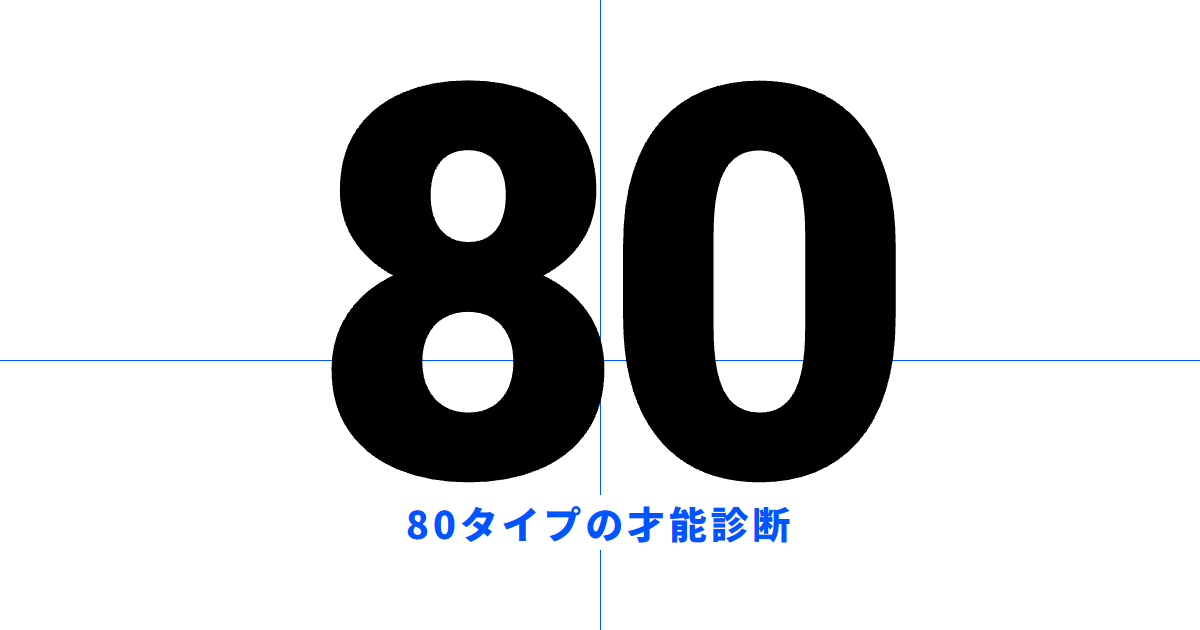
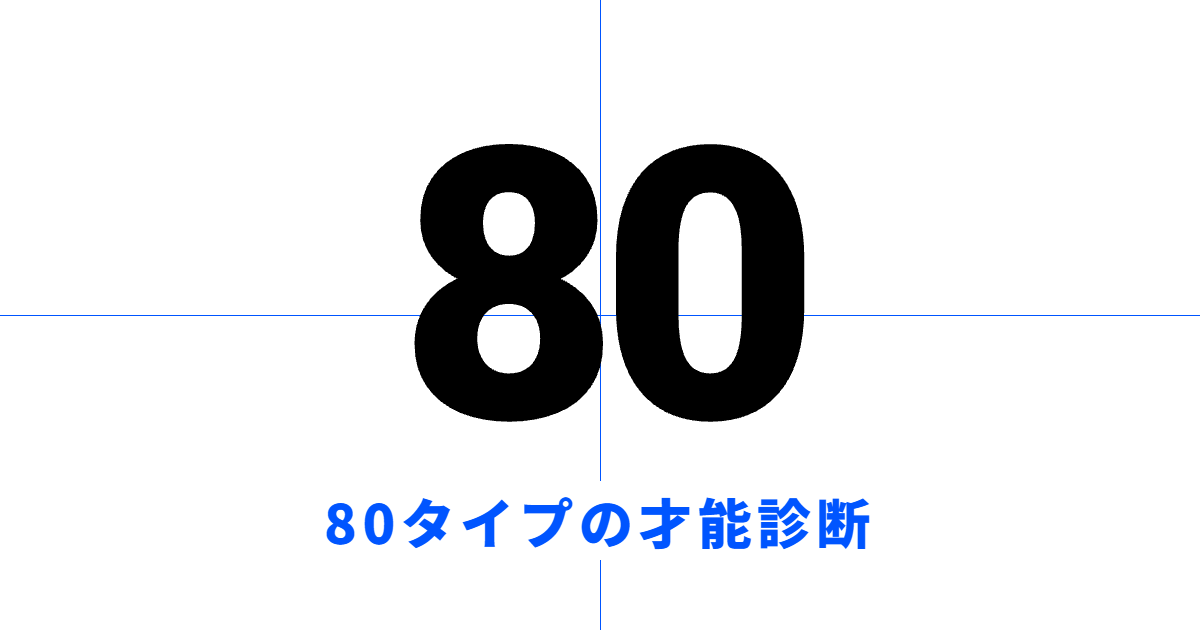
commit80

Changed region(s): [[0.2467, 0.1206, 0.7708, 0.8746]]

diff --git a/generate-ogp.js b/generate-ogp.js
@@ -31,7 +31,7 @@ const path = require("path");
         /* Blue Crosshairs */
         .h-line {
           position: absolute;
-          top: 360px; /* Below the center of 80 */
+          top: 315px; /* Exactly center of 630px */
           left: 0;
           width: 100%;
           height: 1px;
@@ -41,7 +41,7 @@ const path = require("path");
         .v-line {
           position: absolute;
           top: 0;
-          left: 600px;
+          left: 600px; /* Exactly center of 1200px */
           width: 1px;
           height: 100%;
           background-color: #0055FF;
@@ -51,20 +51,20 @@ const path = require("path");
         .number {
           font-family: 'Roboto', sans-serif;
           font-weight: 900;
-          font-size: 550px;
+          font-size: 380px; /* Decreased from 550px */
           color: #000000;
           line-height: 1;
           z-index: 2;
-          margin-top: -60px; /* Adjust to center vertically */
+          margin-top: -60px; /* Adjust to center vertically, visual center of 80 is lower */
           letter-spacing: -0.05em;
         }
         /* Text */
         .text {
           position: absolute;
-          bottom: 80px;
+          bottom: 70px;
           font-family: 'Noto Sans JP', sans-serif;
           font-weight: 900;
-          font-size: 38px;
+          font-size: 54px; /* Increased from 38px */
           color: #0055FF;
           letter-spacing: 0.1em;
           z-index: 2;

diff --git a/index.html b/index.html
@@ -66,6 +66,7 @@
   <meta name="viewport" content="width=device-width, initial-scale=1.0">
   <title>PERSONAL FILE | 80 TYPES RESOLUTION</title>
   <link rel="icon" href="favicon.svg" type="image/svg+xml">
+  <link rel="canonical" href="https://www.personal-file.jp/">
   <meta name="description" content="PERSONAL FILE: 80 TYPES RESOLUTION. SYSTEMATIC CAREER DECODING.">
   
   <!-- OGP & Twitter Cards -->
